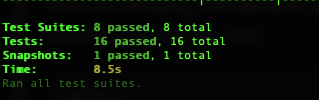
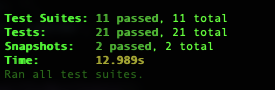
Added test cases for custom hook (useYoutubeSearch)

Changed region(s): [[0.0, 0.1333, 0.8436, 0.7333], [0.0, 0.7778, 0.5236, 0.8889], [0.0, 0.0, 0.9891, 0.0667]]

diff --git a/src/utils/hooks/__tests__/useYoutubeSearch.spec.jsx b/src/utils/hooks/__tests__/useYoutubeSearch.spec.jsx
@@ -1,0 +1,33 @@
+import { renderHook, act } from '@testing-library/react-hooks';
+
+import { useYoutubeSearch } from '..';
+
+describe('useYoutubeSearch', () => {
+  it('sets loading while fetching', async () => {
+    const { result, waitForNextUpdate } = renderHook(useYoutubeSearch);
+
+    expect(result.current.loading).toBeFalsy();
+
+    await act(async () => {
+      result.current.search('');
+
+      await waitForNextUpdate();
+    });
+
+    expect(result.current.loading).toBeTruthy();
+  });
+
+  it('should throw an error message', async () => {
+    const { result, waitForNextUpdate } = renderHook(useYoutubeSearch);
+
+    console.error = jest.fn();
+
+    await act(async () => {
+      result.current.search('');
+
+      await Promise.all([...Array(2)].map(() => waitForNextUpdate()));
+    });
+
+    expect(console.error).toHaveBeenCalled();
+  });
+});

diff --git a/src/utils/hooks/useYoutubeSearch.jsx b/src/utils/hooks/useYoutubeSearch.jsx
@@ -1,7 +1,7 @@
 import { useEffect, useReducer, useCallback } from 'react';
-import axios from 'axios';
 
 import * as types from '../constants';
+import { ytInstance as instance } from '../axiosConfig';
 
 const initialState = { loading: false, result: null };
 
@@ -20,13 +20,6 @@ const reducer = (state = initialState, { type, payload }) => {
     }
   }
 };
-
-const instance = axios.create({
-  baseURL: 'https://www.googleapis.com/youtube/v3/search',
-  params: {
-    key: process.env.REACT_APP_YOUTUBE_DATA_API_V3_KEY,
-  },
-});
 
 const defaultParams = {
   q: '',

diff --git a/src/utils/axiosConfig.js b/src/utils/axiosConfig.js
@@ -1,0 +1,8 @@
+import axios from 'axios';
+
+export const ytInstance = axios.create({
+  baseURL: 'https://www.googleapis.com/youtube/v3/search',
+  params: {
+    key: process.env.REACT_APP_YOUTUBE_DATA_API_V3_KEY,
+  },
+});
